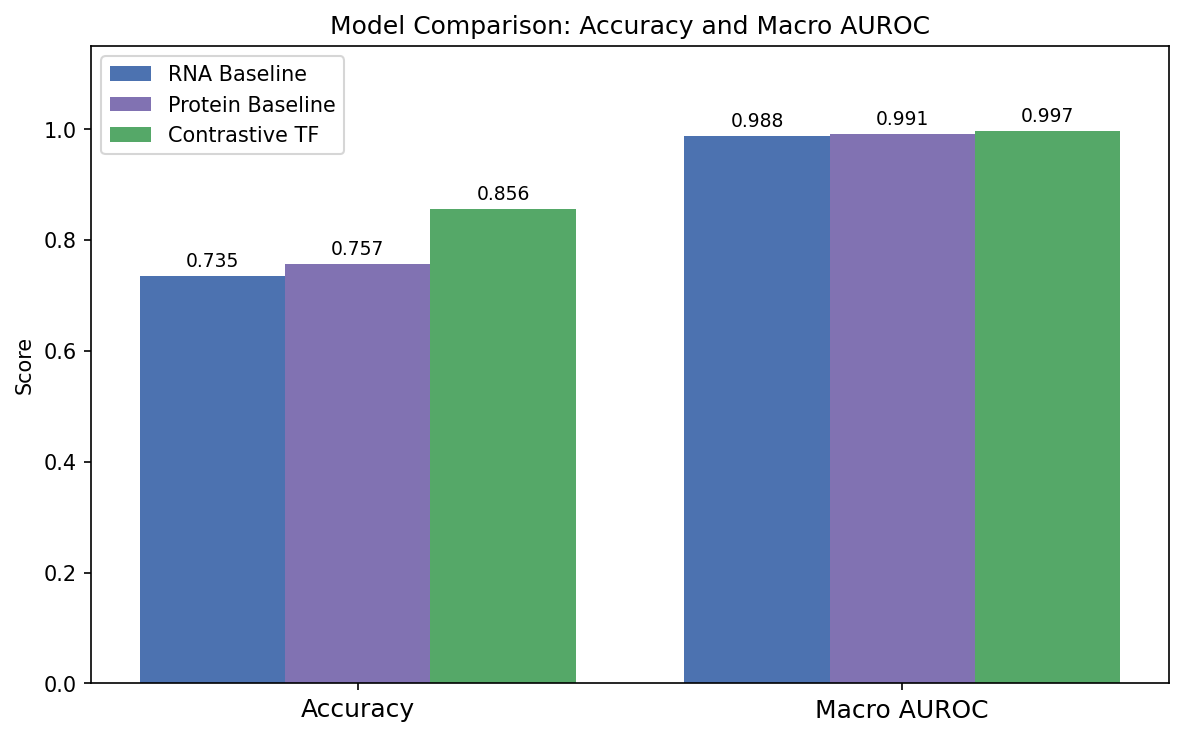
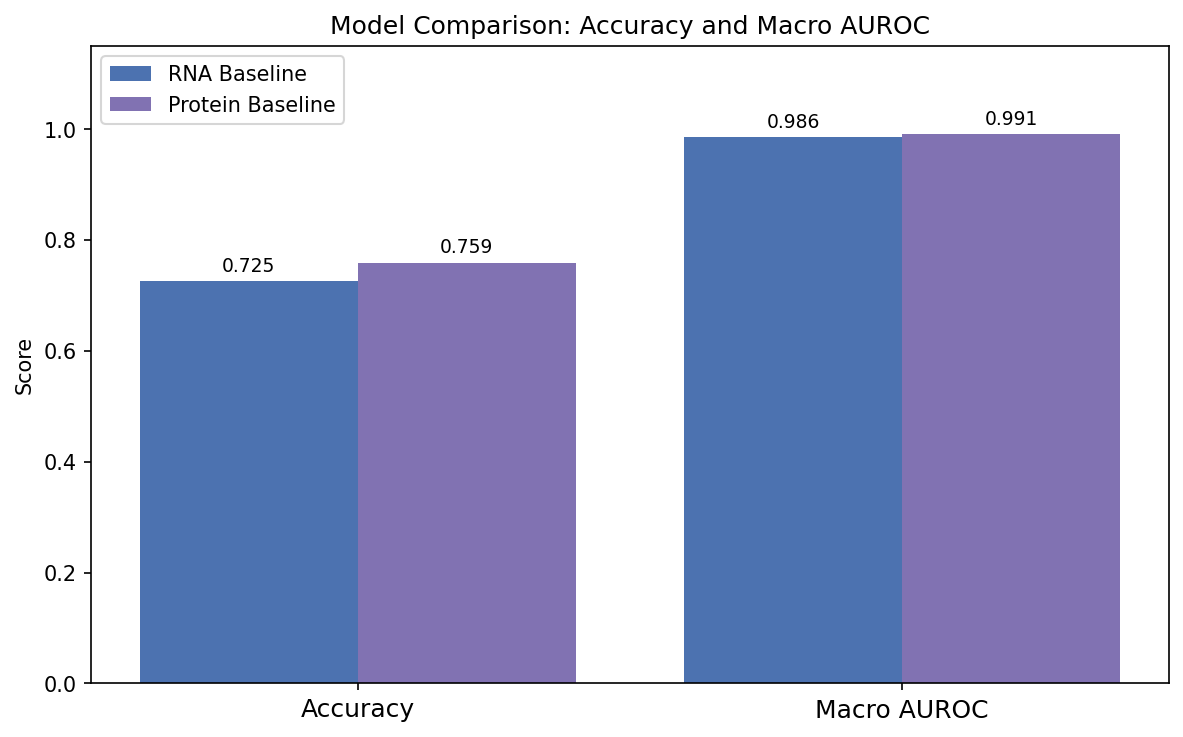
retrain baselines w/ standard hyperparams

diff --git a/src/train_baseline_protein.py b/src/train_baseline_protein.py
@@ -481,14 +481,14 @@ def parse_args() -> argparse.Namespace:
     parser.add_argument("--test_size", type=float, default=0.2)
     parser.add_argument("--val_ratio", type=float, default=0.1)
 
-    parser.add_argument("--hidden_dim", type=int, default=256)
+    parser.add_argument("--hidden_dim", type=int, default=512)
     parser.add_argument("--embedding_dim", type=int, default=128)
     parser.add_argument("--classifier_hidden_dim", type=int, default=64)
-    parser.add_argument("--classifier_dropout", type=float, default=0.2)
+    parser.add_argument("--classifier_dropout", type=float, default=0.3)
     parser.add_argument("--encoder_dropout", type=float, default=0.4)
 
-    # Hyperparameters: lr: 1e-3, weight_decay: 1e-5, batch_size: 256
-    parser.add_argument("--batch_size", type=int, default=256)
+    # Shared hyperparameters (matches contrastive model defaults where applicable)
+    parser.add_argument("--batch_size", type=int, default=128)
     parser.add_argument("--lr", type=float, default=1e-3)
     parser.add_argument("--weight_decay", type=float, default=1e-5)
     parser.add_argument("--epochs", type=int, default=50)

diff --git a/src/train_baseline_rna.py b/src/train_baseline_rna.py
@@ -498,14 +498,14 @@ def parse_args() -> argparse.Namespace:
     parser.add_argument("--val_ratio", type=float, default=0.1)
 
     parser.add_argument("--rna_pca_dim", type=int, default=256)
-    parser.add_argument("--hidden_dim", type=int, default=256)
+    parser.add_argument("--hidden_dim", type=int, default=512)
     parser.add_argument("--embedding_dim", type=int, default=128)
     parser.add_argument("--classifier_hidden_dim", type=int, default=64)
-    parser.add_argument("--classifier_dropout", type=float, default=0.2)
+    parser.add_argument("--classifier_dropout", type=float, default=0.3)
     parser.add_argument("--encoder_dropout", type=float, default=0.5)
 
-    # Hyperparameters: lr: 1e-3, weight_decay: 1e-5, batch_size: 256
-    parser.add_argument("--batch_size", type=int, default=256)
+    # Shared hyperparameters (matches contrastive model defaults where applicable)
+    parser.add_argument("--batch_size", type=int, default=128)
     parser.add_argument("--lr", type=float, default=1e-3)
     parser.add_argument("--weight_decay", type=float, default=1e-5)
     parser.add_argument("--epochs", type=int, default=50)
